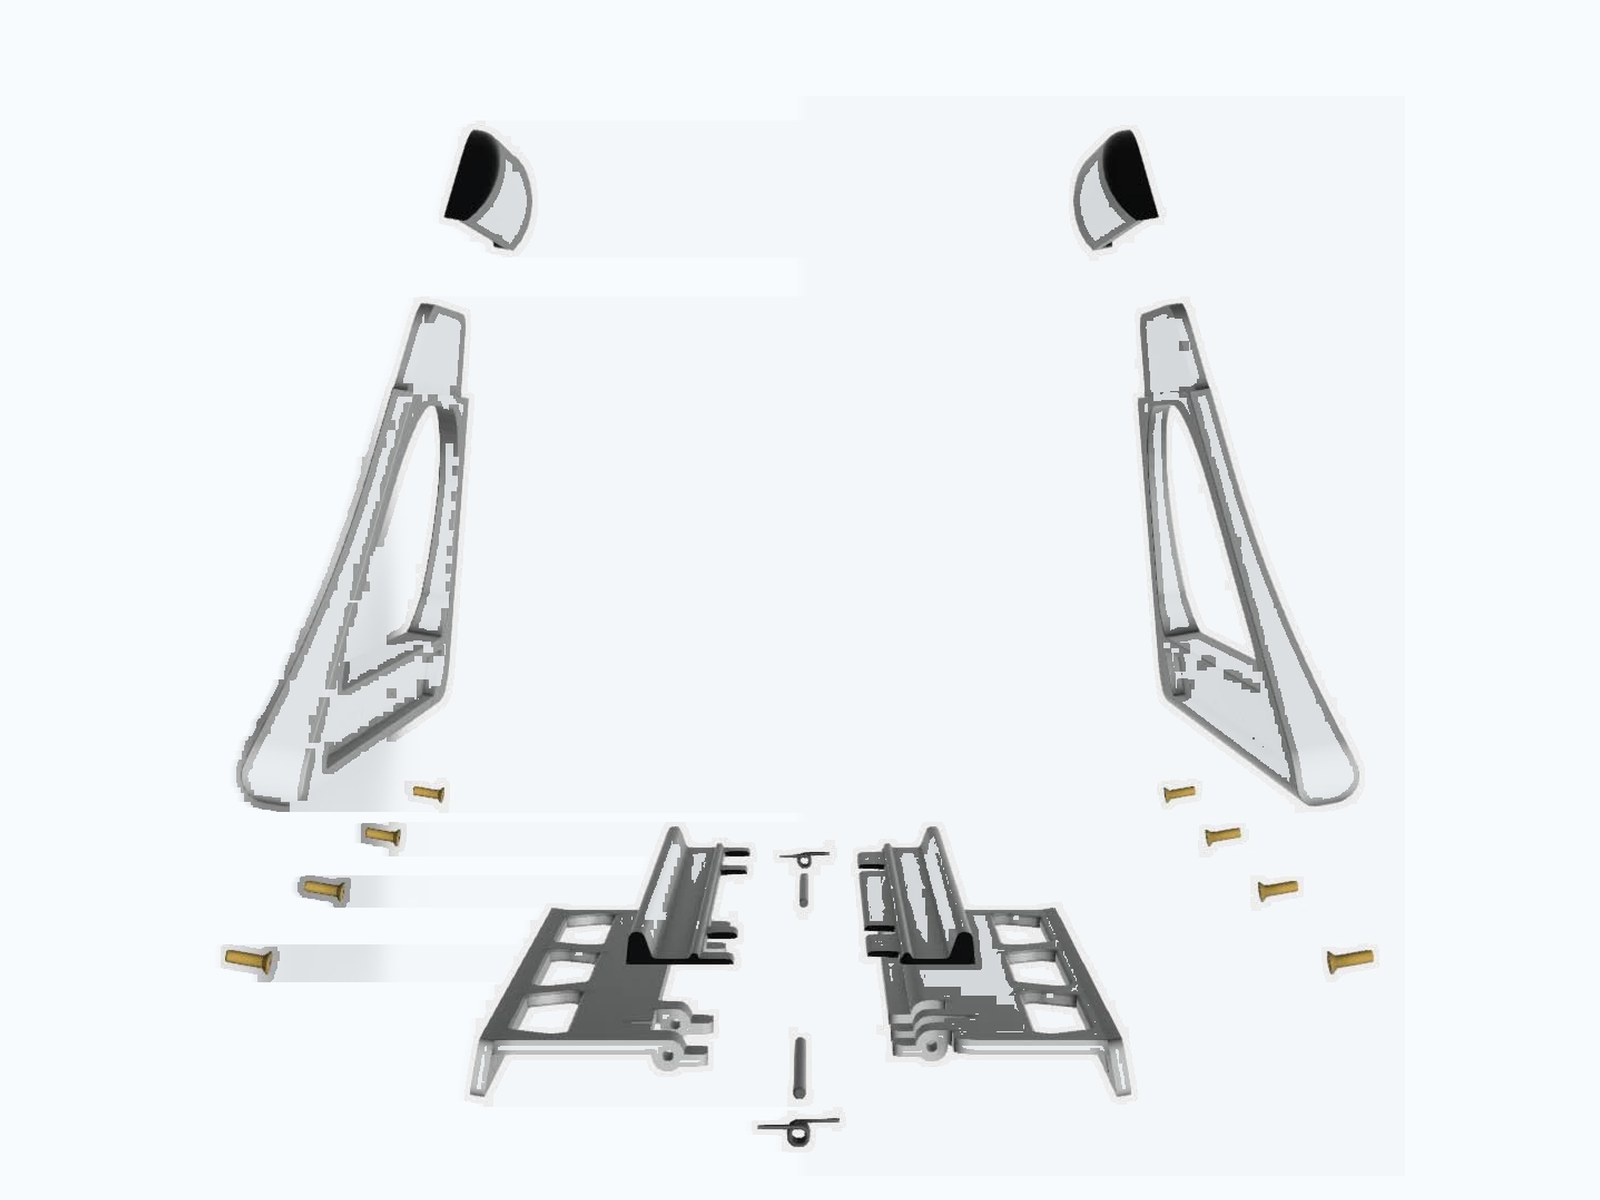
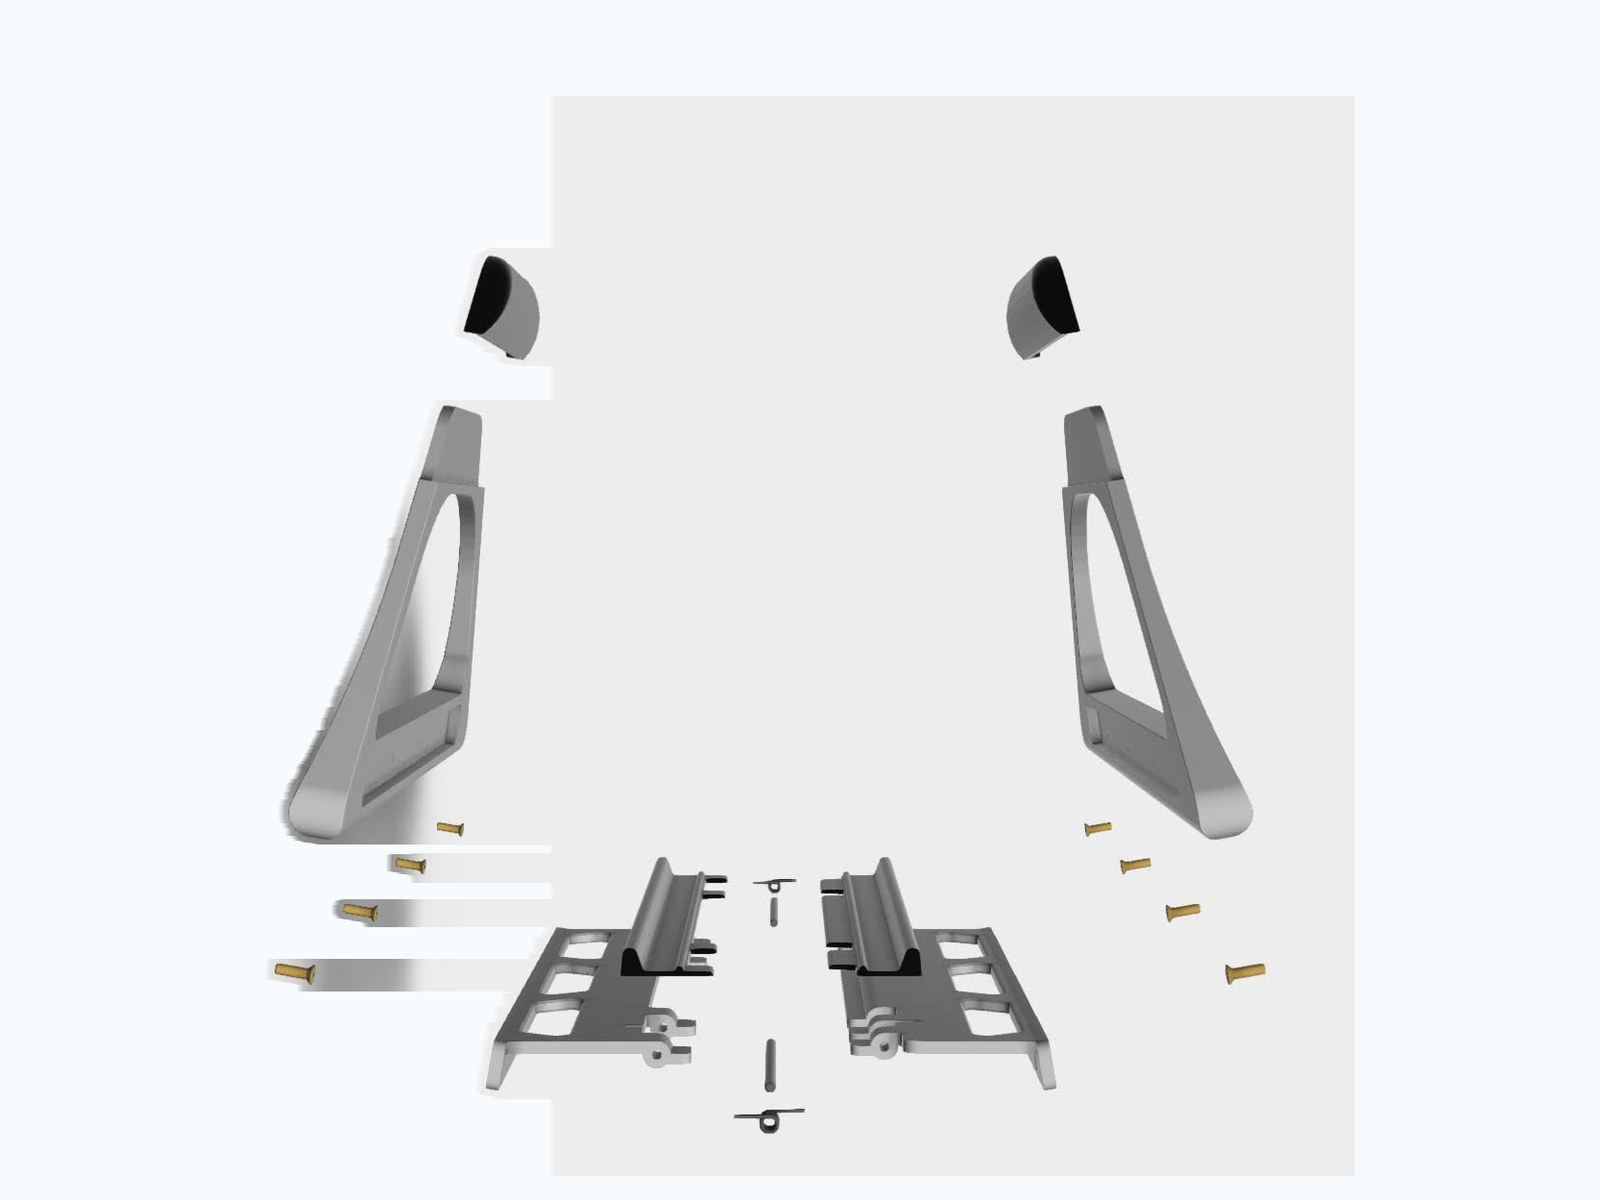
Exploded render: remove wall shadow only, restore natural part shadows; views board rebuilt from three matching studio renders

diff --git a/elestoria.html b/elestoria.html
@@ -91,9 +91,9 @@
       </div>
       <p class="fig-cap"><em>fig. 07</em> one product, three states — from the original ELE-VD01 CAD files</p>
       <div class="exploded reveal">
-        <img src="assets/vd-views.jpg" loading="lazy" alt="Three engineering views of the gravity dock: grip arms open with no device, a laptop docked seen edge-on, and the underside spring-loaded hinge mechanism">
+        <img src="assets/vd-views.jpg" loading="lazy" alt="Three studio views of the gravity dock: assembled three-quarter view, grip arms open from the front, and a laptop docked seen edge-on">
       </div>
-      <p class="fig-cap"><em>fig. 08</em> engineering views &#8212; grip open, device docked, and the spring-loaded underside</p>
+      <p class="fig-cap"><em>fig. 08</em> studio views &#8212; three-quarter, grip open, and device docked</p>
     </div>
   </section>
 